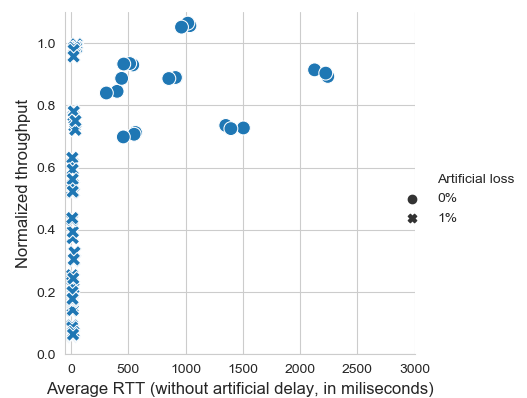
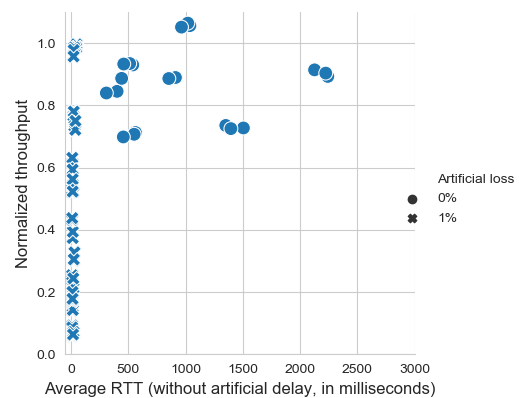
Fixed a spelling mistake

Changed region(s): [[0.0911, 0.9347, 0.8501, 1.0]]

diff --git a/server/analyze.py b/server/analyze.py
@@ -167,7 +167,7 @@ def plot_throughput_delay_scatter():
     all_traces.remove("ferry")
     all_traces.remove("metro")
     all_traces.remove("tram3")
-    params = get_tests(traces=["metro"])
+    params = get_tests(losses=[1])
     columns = ["test_name", "avg_rtt", "avg_throughput", "Artificial loss", "CCA", "trace", "Artificial delay", "avg_tp_norm", "avg_rtt_norm"]
     accumulator = []
     mean_tp_accumulator = [[], [], []]
@@ -187,8 +187,8 @@ def plot_throughput_delay_scatter():
     mean_tp5 = []
     mean_tp25 = []
     mean_tp100 = []
-    for rtt in [100, 2900]:
-    #for rtt in [1, 78]:
+    #for rtt in [100, 2900]:
+    for rtt in [1, 78]:
         mean_tp5.append([np.mean(mean_tp_accumulator[0]), rtt])
         mean_tp25.append([np.mean(mean_tp_accumulator[1]), rtt])
         mean_tp100.append([np.mean(mean_tp_accumulator[2]), rtt])
@@ -203,26 +203,26 @@ def plot_throughput_delay_scatter():
     df.avg_rtt_norm = df.avg_rtt_norm.astype(float)
     df.avg_tp_norm = df.avg_tp_norm.astype(float)
     #sns.lineplot(x="rtt", y="mean_tp", data=mean_df, hue="art_delay")
-    plot = sns.relplot(x="avg_rtt_norm", y="avg_tp_norm", data=df, style="Artificial loss", s=100)
-    plot.set_xlabels("Average RTT (without artificial delay, in miliseconds)", fontsize=12)
+    plot = sns.relplot(x="avg_rtt_norm", y="avg_tp_norm", data=df, style="Artificial delay", s=100)
+    plot.set_xlabels("Average RTT (without artificial delay, in milliseconds)", fontsize=12)
     plot.set_ylabels("Normalized throughput", fontsize=12) #average throughput achieved relative to average throughput limit
     #plt.title("Throughput/delay comparison, \"metro\" trace")
     plot.fig.set_size_inches(4,4)
-    #plot.axes[0,0].plot(mean_df100.rtt, mean_df100.mean_tp, "g-", marker="s")
-    #plot.axes[0,0].plot(mean_df25.rtt, mean_df25.mean_tp, "g--", marker="x")
-    #plot.axes[0,0].plot(mean_df5.rtt, mean_df5.mean_tp, "g:", marker="o")
+    plot.axes[0,0].plot(mean_df100.rtt, mean_df100.mean_tp, "g-", marker="s")
+    plot.axes[0,0].plot(mean_df25.rtt, mean_df25.mean_tp, "g--", marker="x")
+    plot.axes[0,0].plot(mean_df5.rtt, mean_df5.mean_tp, "g:", marker="o")
     #no loss
     #plot.set(xlim=(0,3000))
     #plot.set(ylim=(0.6,1.1))
     #loss
-    #plot.set(xlim=(0,80))
-    #plot.set(ylim=(0,1))
+    plot.set(xlim=(0,80))
+    plot.set(ylim=(0,1))
     #combined
     #plot.set(xlim=(-50, 3000))
     #plot.set(ylim=(0, 1.1))
     #metro
-    plot.set(xlim=(0, 17500))
-    plot.set(ylim=(0.1, 0.65))
+    #plot.set(xlim=(0, 17500))
+    #plot.set(ylim=(0.1, 0.65))
     plt.show()
 
 
@@ -259,7 +259,7 @@ def plot_throughput_delay_line():
     plot = sns.lineplot(x="timestamp", y="rtt", data=df, hue="cca")
     #plot.set_title(f"RTT over time for trace metro, without loss")
     plot.set_xlabel("Timestamp (seconds)", fontsize=12)
-    plot.set_ylabel("RTT (miliseconds)", fontsize=12)
+    plot.set_ylabel("RTT (milliseconds)", fontsize=12)
     
     plt.show()
 
@@ -293,29 +293,29 @@ def plot_btry():
 
 def distplot():
     sns.set_style("whitegrid")
-    #all_traces.remove("ferry")
-    all_traces.remove("metro")
-    all_traces.remove("tram3")
-    params = get_tests()
+    all_traces.remove("ferry")
+    #all_traces.remove("metro")
+    #all_traces.remove("tram3")
+    params = get_tests(losses=[0])
     acc = {"reno": [], "cubic": []}
     columns = ["rtt"]
     for p in params:
         data = pd.read_csv(p.file_name)
         avg_tp_limit = compute_avg_tp_limit(p.trace)
         for cca in all_ccas:
-            #col = get_column_name(p.test_name, cca, "throughput")
-            col = get_column_name(p.test_name, cca, "rtt")
+            col = get_column_name(p.test_name, cca, "throughput")
+            #col = get_column_name(p.test_name, cca, "rtt")
             for _, row in data.iterrows():
-                #val = row[col]/avg_tp_limit
-                val = row[col] - p.delay
+                val = row[col]/avg_tp_limit
+                #val = row[col] - p.delay
                 if val > 0:
                     acc[cca].append([val])
     d1 = pd.DataFrame(np.array(acc["reno"]), columns=columns)
     d2 = pd.DataFrame(np.array(acc["cubic"]), columns=columns)
     sns.distplot(d1.rtt, hist=False, color="b", kde_kws={'cumulative': True, 'linestyle':'-'})
     sns.distplot(d2.rtt, hist=False, color="r", kde_kws={'cumulative': True, 'linestyle':'--'})
-    #plt.xlabel("Normalized Throughput")
-    plt.xlabel("RTT without artificial delay (ms)")
+    plt.xlabel("Normalized Throughput")
+    #plt.xlabel("RTT without artificial delay (ms)")
     plt.ylabel("CDF probability")
     #plt.title("CDF normalized RTT without loss, reno (blue, solid line) and cubic (red, dashed line)")
     plt.show()
@@ -349,6 +349,6 @@ if __name__ == "__main__":
     #plot_btry()
     #for trace in all_traces:
     #    plot_trace(trace)
-    #plot_trace("metro")
+    #plot_trace("ferry")
     distplot()
     #find_outlier()
